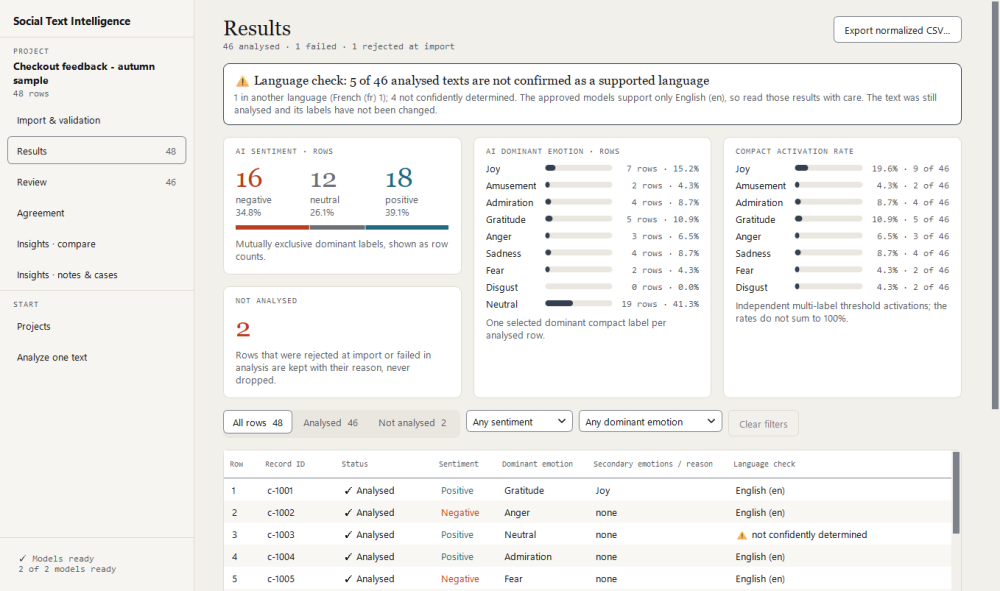
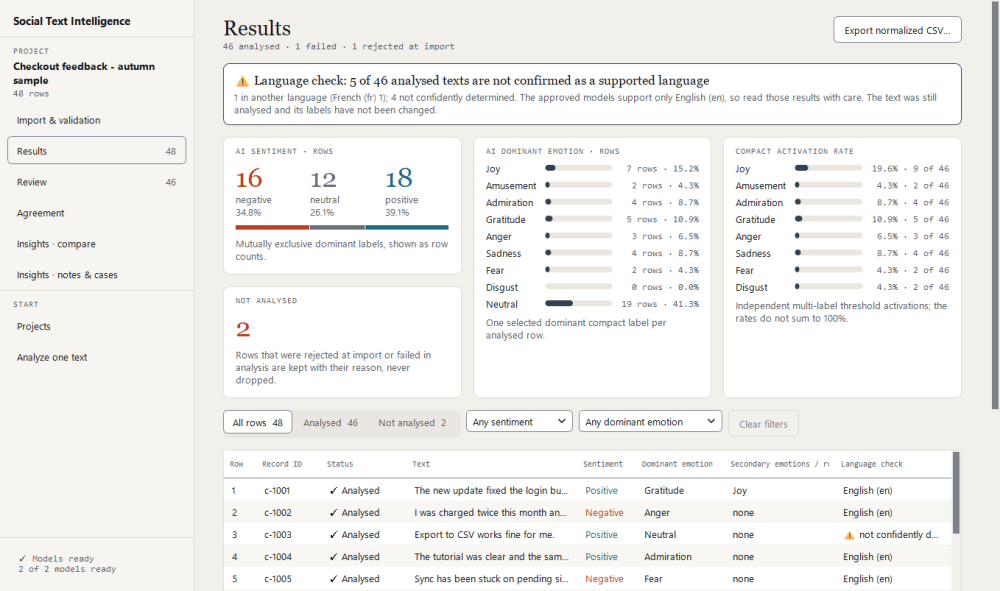
docs(m8b): Round 2 outcome, register updates, font licence facts; refreshed After evidence

diff --git a/docs/V2_M8_TRACK_B_FIDELITY.md b/docs/V2_M8_TRACK_B_FIDELITY.md
@@ -153,7 +153,7 @@ decision; not changed in Track B). Impact: H visible structure, M visible detail
 | S4 | Setup | "Licences…" link → none | L | b | ACCEPTED DEVIATION: no licence viewer exists; notices and the LGPL gate belong to M10 |
 | P1 | Projects | One list card of rows, newest "Open" primary → separate bordered cards, every Open primary | H | a | FIXED |
 | P2 | Projects | "Analyze one text" beside the main action → only Import | M | a | FIXED |
-| P3 | Projects | ROWS and HUMAN REVIEW (segmented bar, "29 / 46 reviewed · 10 corrected") columns, "last opened", filter tabs All / In review / Fully reviewed → name and updated time only | H | a | **UNRESOLVED**: the project listing carries only name, status and dates. Row counts and review progress per project would extend the persistence read path (every project file opened to list), which Track B must not change. Decision needed: extend the listing summary in a later milestone, or accept the plainer list |
+| P3 | Projects | Per-project ROWS and HUMAN REVIEW (bar, "29 / 46 reviewed · 10 corrected"), filter tabs All / In review / Fully reviewed → name and updated time only | H | a | FIXED in Round 2 (section 11): per-project counts read at listing time with five `COUNT(*)` queries, no text; a progress meter and words per row; tabs All / Not analysed / In review / Fully reviewed with counts that filter the list |
 | P4 | Projects | "New project from CSV…" and a × delete → "Import CSV…" and "Delete…" | L | b | ACCEPTED DEVIATION: M4 wording and conservative delete wording (V2-1) |
 | P5 | Projects | Storage path line (`%LOCALAPPDATA%…`) → a sentence without a path | L | b | ACCEPTED DEVIATION: no machine-specific path is shown |
 | D1 | Direct | Input beside result → input above result | H | a | FIXED: two panes, stacked below 860 px |
@@ -162,15 +162,15 @@ decision; not changed in Track B). Impact: H visible structure, M visible detail
 | D4 | Direct | Threshold-fallback caution box → a muted sentence | M | a | FIXED: caution box only when the fallback chose Neutral |
 | D5 | Direct | Character counter → none | L | a | FIXED |
 | D6 | Direct | "Try an example" list → none | L | b | ACCEPTED DEVIATION: not in the F1 boundary; a prototype nicety |
-| D7 | Direct | Vertical bars with a threshold line for the nine compact scores → horizontal bars | M | b | ACCEPTED DEVIATION: every score is written beside its bar, the rows reflow and read well to assistive technology |
+| D7 | Direct | Vertical bars with a threshold line for the nine compact scores → horizontal bars | M | a | FIXED in Round 2: the Analyze page draws the nine scores as columns with their numbers and a dashed threshold line, named in full for assistive technology. Review's narrow AI card keeps the horizontal bar rows (ACCEPTED DEVIATION) |
 | I1 | Import | A two-step wizard (read the file, name the project, then "Create project & analyze N rows") → the import creates the project at once | H | b | ACCEPTED DEVIATION: V2-1 and M4 persist the project at import; a confirm-before-create step would change persistence semantics |
 | I2 | Import | Large valid / invalid / possibly-not-English figures → one text line | M | a | FIXED: figures; the language figure appears after analysis because the language check runs with the analysis |
 | I3 | Import | Recognised metadata chips ("— not in file") → none | M | a | FIXED, with the note that groups come only from these columns |
-| I4 | Import | A preview table of every row (id, text, source, check chip) with All / Invalid / Language notice tabs → only the rejected rows | H | a | **UNRESOLVED**: the results read model deliberately never holds record text, and today lists only problem rows. A full preview would reopen that data-minimisation decision. Decision needed |
+| I4 | Import | A preview table of every row (id, text, source, check chip) with All / Invalid / Language notice tabs → only the rejected rows | H | a | FIXED in Round 2: every row with a 100-character text excerpt, a Ready / Rejected check and the rejection reason, All / Rejected tabs, scrolling inside a bounded height. No source column (the reference's `source_type` is not a displayed field here) and no Language notice tab (the language check runs with the analysis, so it is unknown at import: ACCEPTED DEVIATION) |
 | I5 | Import | Wide reason column and scrollbar → squeezed table | L | a | FIXED (columns fit; the reason is elided with a tooltip) |
 | R1 | Results | Big coloured sentiment counts over a proportional bar → three bar rows | H | a | FIXED: counts, share, stacked bar; exact text kept in accessible names |
 | R2 | Results | Coloured sentiment words in the table → plain | M | a | FIXED (the word is written) |
-| R3 | Results | A TEXT column (truncated record text) → no text | H | a | **UNRESOLVED**: same decision as I4 |
+| R3 | Results | A TEXT column (truncated record text) → no text | H | a | FIXED in Round 2: a read-only TEXT column from the same bounded excerpt; exports are unchanged |
 | R4 | Results | Status chips ("analyzed", "fallback") in table cells → status words with a check mark | L | b | ACCEPTED DEVIATION: table cells are text; the word carries the state |
 | R5 | Results | Vertical dominant-emotion chart, clicking a bar filters → horizontal bars, filters by combo | M | b | ACCEPTED DEVIATION as D7 |
 | R6 | Results | Four cards in one row → three columns with the failed card under sentiment | L | b | ACCEPTED DEVIATION: reflows at narrow widths |
@@ -214,9 +214,20 @@ difference shows most: the display serif (Instrument Serif is narrower and highe
 than Georgia, so titles and large figures look heavier and wider), the UI face (Inter vs
 Segoe UI Variable: very close at 10 pt) and the letter-spaced mono eyebrows (IBM Plex Mono
 vs Consolas). No fonts were bundled. Per the UI/IA record the licence claim is unverified;
-bundling would need an independent licence check, entries in
-[Third-Party Notices](../THIRD_PARTY_NOTICES.md) and a decision by the owner. Nothing in
-this track depends on it.
+bundling needs a decision by the owner and entries in
+[Third-Party Notices](../THIRD_PARTY_NOTICES.md).
+
+Licence facts, read from the official licence files in Round 2 (not legal advice):
+Inter (`rsms/inter`), IBM Plex (`IBM/plex`, which covers IBM Plex Mono) and Instrument
+Serif (`Instrument/instrument-serif`) are each under the SIL Open Font License 1.1.
+Copyright lines: "The Inter Project Authors" (2016), "IBM Corp." (2017) and "The
+Instrument Serif Project Authors" (2022). IBM Plex declares the Reserved Font Name
+"Plex"; Inter and Instrument Serif declare none. The OFL permits bundling the fonts
+with software if each copy carries the copyright notice and the licence text (as text
+files or in the font metadata) and the fonts are not sold on their own; the fonts stay
+under the OFL; a modified version may not use a Reserved Font Name. The Google Fonts
+licence page for Instrument Serif was not read. Bundling is therefore plausible but is
+an owner decision and a notices task; **no font was bundled**.
 
 ## 7. Interaction regression tests
 
@@ -251,9 +262,9 @@ The reference pictures stay on the sidecar commit (section 1).
 
 - **Visual acceptance: PENDING OWNER.** The register above lists what was changed and
   what was deliberately kept; whether the result is close enough is the owner's call.
-- **UNRESOLVED (owner decision):** P3 (per-project rows and review progress), I4 and R3
-  (record text in the import preview and the results table). Each needs a deliberate
-  change to a read model or a persisted summary.
+- **UNRESOLVED:** none from Round 1 remain. P3, I4 and R3 were built in Round 2
+  (section 11) within the owner's constraints; no obstacle was met. The remaining
+  ACCEPTED DEVIATIONS are listed in section 5.
 - **Owner exploratory trial: PENDING OWNER.** See the
   [walkthrough](../manual-qa/owner-trial/WALKTHROUGH.md) and
   [friction log](../manual-qa/owner-trial/FRICTION_LOG.md). It is not M9's UAT.
@@ -301,3 +312,43 @@ Existing tests that encoded the old "read models never hold record text" boundar
 (`SENTINEL not in ...`) are revised deliberately, not weakened by accident: the text
 may appear only as a bounded excerpt in the row read models and the table, and must
 still be absent from every notice, error and export-independent surface.
+
+
+### 11.1 Outcome
+
+- **P3 (project list):** `ProjectSummary` gains read-time counts (`row_count`,
+  `rejected_rows`, `analysed_rows`, `reviewed_rows`, `corrected_rows`), filled by five
+  `COUNT(*)` queries over the identity, status and judgment columns inside the
+  listing's existing read transaction. No text, report or note is read and nothing is
+  decoded or persisted; no schema change. The listing already runs off the UI thread
+  (`ProjectsController.refresh` through the job runner) and already opened each project
+  file to read its name; that cost is unchanged apart from the five small queries.
+  `test_listing_reads_counts_without_loading_any_record_text` traces the SQL and fails
+  if a text column is selected. Track A's rules hold: a project held by another window
+  is still skipped as before, and the counts use `invalid` for rows rejected at import
+  and `analysed` for rows with a result, so analysed + failed = valid (A6) is untouched.
+- **I4 (import preview) and R3 (results text):** the workflow read models carry
+  `ValidationRow` / `ResultRow.excerpt`, produced by
+  `application/text_excerpt.py` (whitespace folded, cut at 100 characters, `(empty)`
+  for an empty text). The full text is never copied into a view model; a test checks
+  that the tail of a long text is absent from every read model and view. Notices,
+  errors and exports are unchanged. The tests that used to assert "no record text in the
+  read models" were revised to assert the bounded excerpt instead.
+- **Selection integrity and UI:** the queue and tabs are unchanged; project rows open by
+  project id (`test_the_review_tabs_filter_the_list_and_open_still_opens_the_right_project`);
+  rows fall back to a compact layout below 760 px; the 900 px sweep and the list page at
+  900 px pass.
+- **D7:** the nine compact scores of Analyze one text are columns with a threshold
+  line (`ColumnChart`); the narrow Review card keeps bar rows.
+
+### 11.2 Round 2 re-audit against the Reference
+
+High-impact structural differences still present after Round 2, each deliberate:
+Agreement keeps boxed figure cards and shows both confidence panels at once (the
+reference toggles one); Compare keeps a combo for the perspective and a checkbox list
+for the groups (the reference uses segmented tabs and chips); Notes keeps a combo for
+the case rule; Review's AI card keeps the compact bar rows beside the scores the
+reference hides behind "Inspect all"; Results keeps three card columns (the reference
+has four); the sidebar has no icons. None hides data or breaks a binding decision; each
+trades a visual match for information, keyboard operation or reflow. Typography is the
+largest remaining material difference and is system-font bound (section 6).

diff --git a/manual-qa/m8-visual-evidence/README.md b/manual-qa/m8-visual-evidence/README.md
@@ -21,9 +21,9 @@ Directories (all PNG, shrunk to 1000 px wide):
 | Directory | What it is |
 | --- | --- |
 | `before/` | the baseline `53a5c27` (M7 merged), 1358 × 803 content area, 100% scale |
-| `after/` | this branch's final behavioural head, same frame and data |
+| `after/` | this branch's final behavioural head (Round 2 included: project counts and tabs, the import row preview, the Results text column, the Analyze columns chart), same frame and data |
 | `before-900/`, `after-900/` | the same screens at the 900 px minimum window width |
-| `after-150/` | Review (and its unsupported-language record), Projects and Analyze one text (and its fallback state) at 150% scaling, logical 1100 × 700 |
+| `after-150/` | Review (and its unsupported-language record), Projects, Analyze one text (and its fallback state), Import and Results at 150% scaling, logical 1100 × 700 |
 
 ## Reference → Before → After index
 
@@ -48,7 +48,8 @@ were retired from the V2 surface by U4.
 At 150% scaling: [Review](after-150/demo_review.png),
 [Review, unsupported language](after-150/demo_review-language.png),
 [Projects](after-150/demo_projects.png), [Analyze one text](after-150/demo_direct.png),
-[Analyze one text, fallback](after-150/demo_direct-fallback.png).
+[Analyze one text, fallback](after-150/demo_direct-fallback.png),
+[Import](after-150/demo_import.png), [Results](after-150/demo_results.png).
 
 Not shown: the datasets here are invented and differ from the prototype's scripted
 numbers, and the operating-system window frame is not part of a widget grab.
